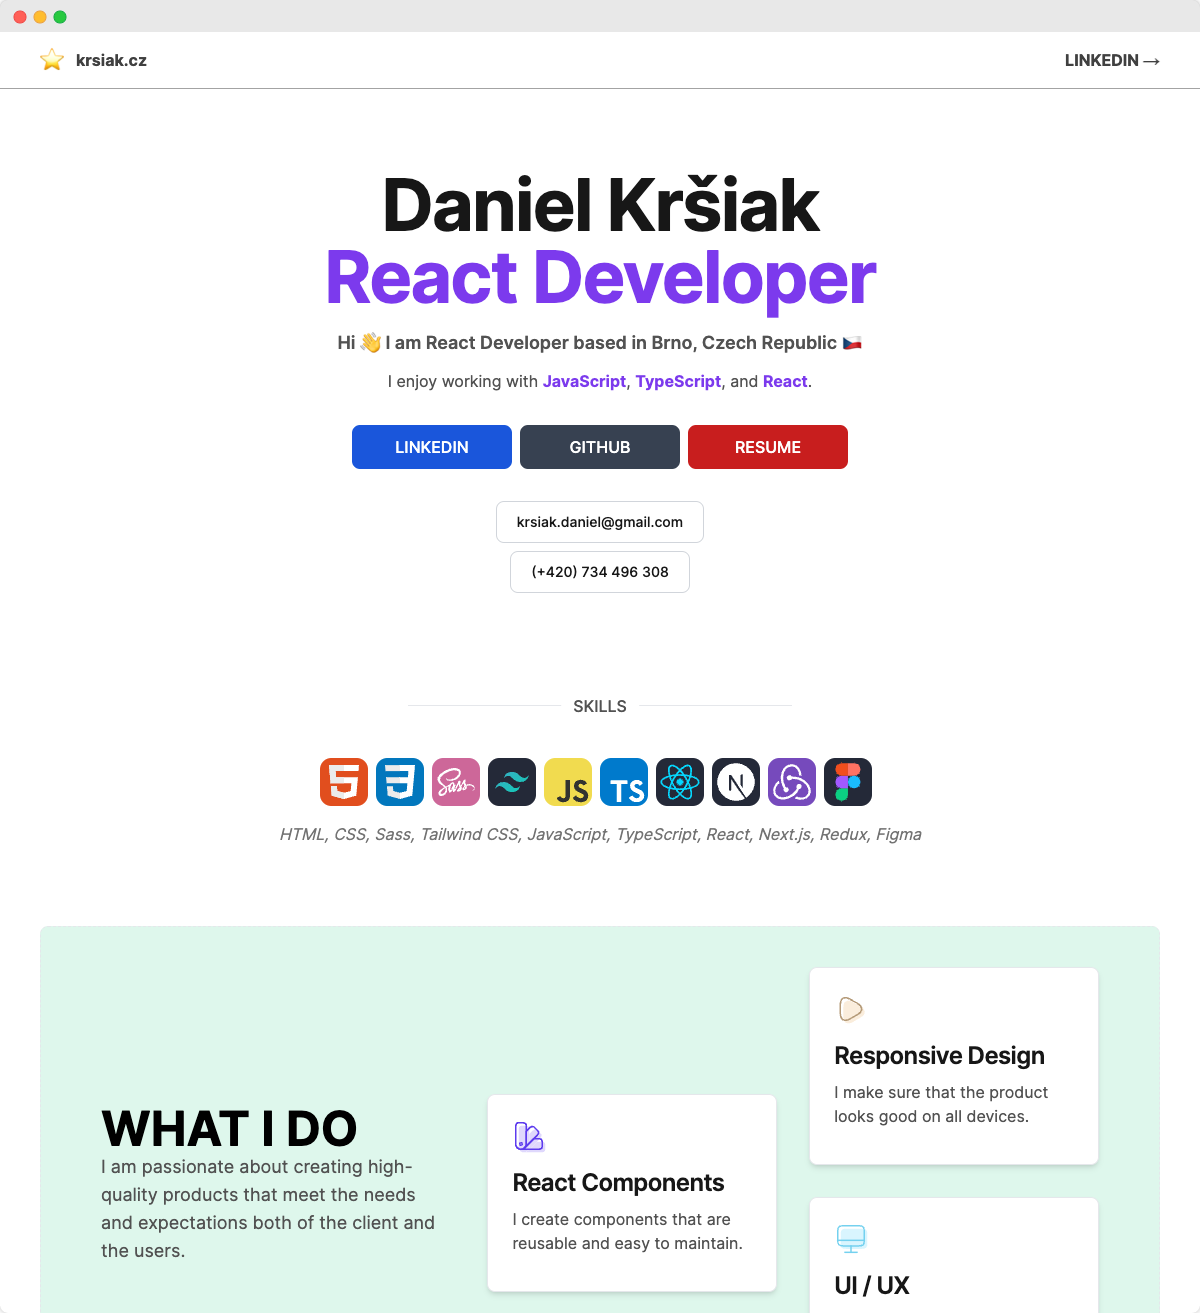
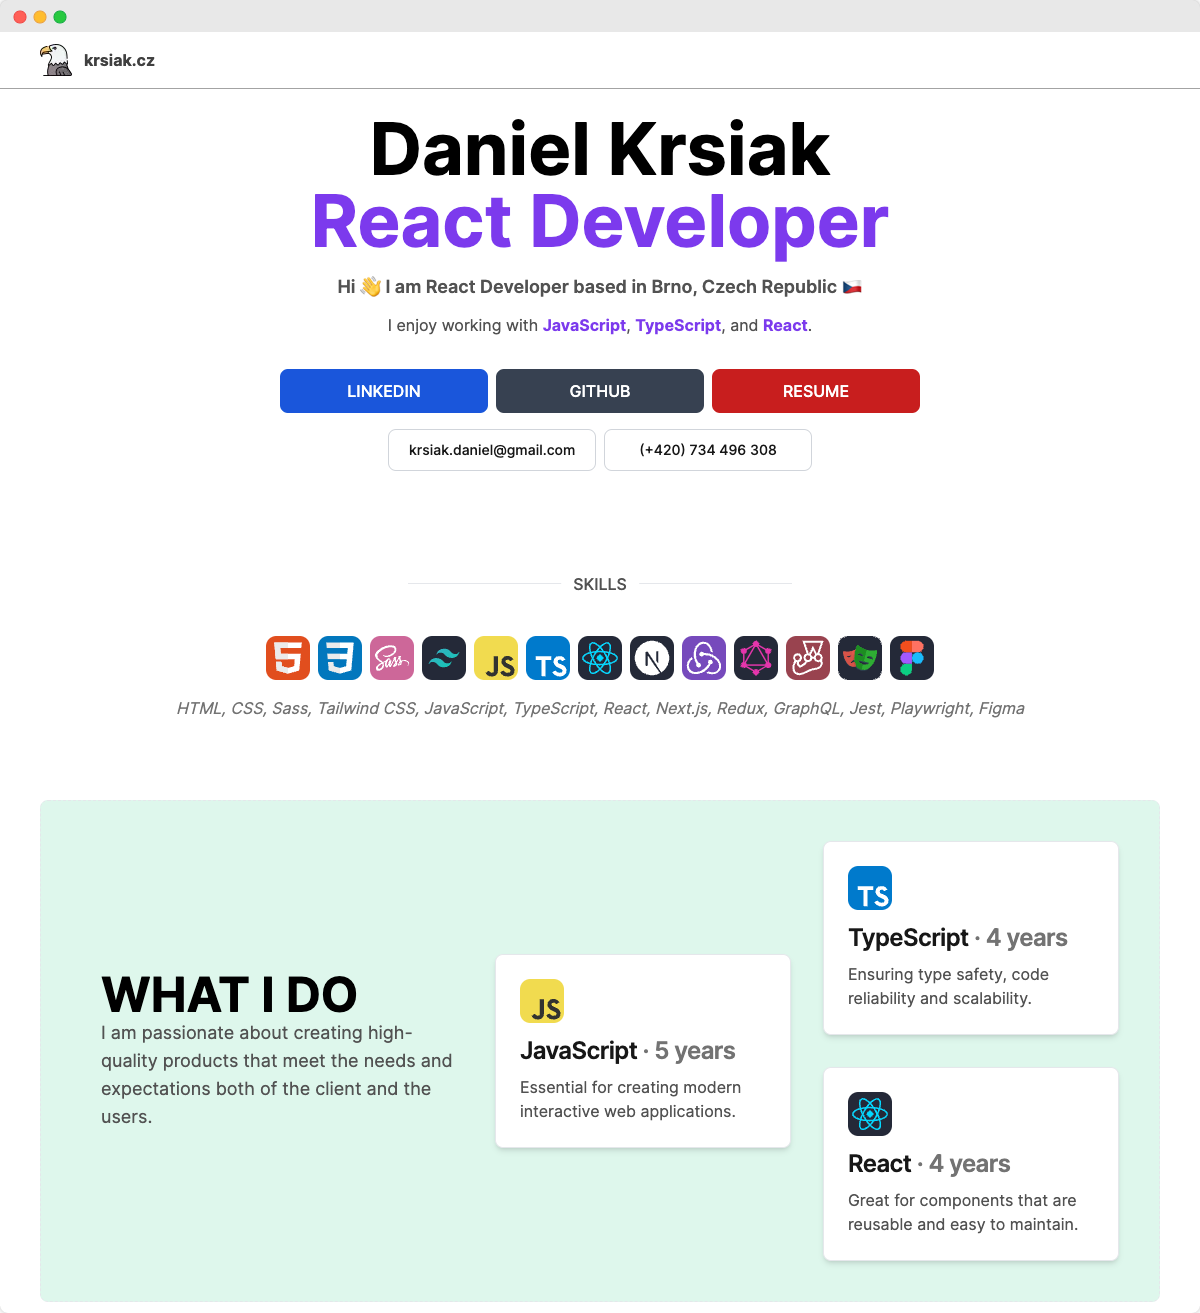
ref: update screenshots

Changed region(s): [[0.0308, 0.0937, 0.9867, 1.0], [0.0308, 0.0312, 0.1233, 0.0625], [0.8942, 0.0312, 0.9558, 0.0625]]

diff --git a/data/projects/personal/projectsOverview.ts b/data/projects/personal/projectsOverview.ts
@@ -9,6 +9,8 @@ import { Project } from '@/utils/types'
 import krsiak1 from '@/public/images/projects-personal/krsiak/krsiak-1-light.png'
 import krsiak2 from '@/public/images/projects-personal/krsiak/krsiak-2-light.png'
 import krsiak3 from '@/public/images/projects-personal/krsiak/krsiak-3-light.png'
+import krsiak4 from '@/public/images/projects-personal/krsiak/krsiak-4-light.png'
+import krsiak5 from '@/public/images/projects-personal/krsiak/krsiak-5-light.png'
 import krsiakThumb from '@/public/images/projects-personal/krsiak/krsiak-thumb-light-600.webp'
 
 import cryptomania4 from '@/public/images/projects-personal/cryptomania/cryptomania-1-dark.png'
@@ -31,7 +33,7 @@ export const projectsPersonalNext: Project[] = [
     id: projectIDs.personal.krsiak,
     isFeatured: true,
     image: krsiakThumb.src,
-    imageShowcase: [krsiak1.src, krsiak2.src, krsiak3.src],
+    imageShowcase: [krsiak1.src, krsiak2.src, krsiak3.src, krsiak4.src, krsiak5.src],
     title: '👨💻 Portfolio Website',
     company: 'Personal project',
     role: 'Front End - Next.js',

diff --git a/README.md b/README.md
@@ -80,3 +80,5 @@ The website contains these following sections and pages.
 Project screenshots.
 
 ![screenshot-1](/screenshots/screenshot-1.png)
+
+![screenshot-2](/screenshots/screenshot-2.png)
